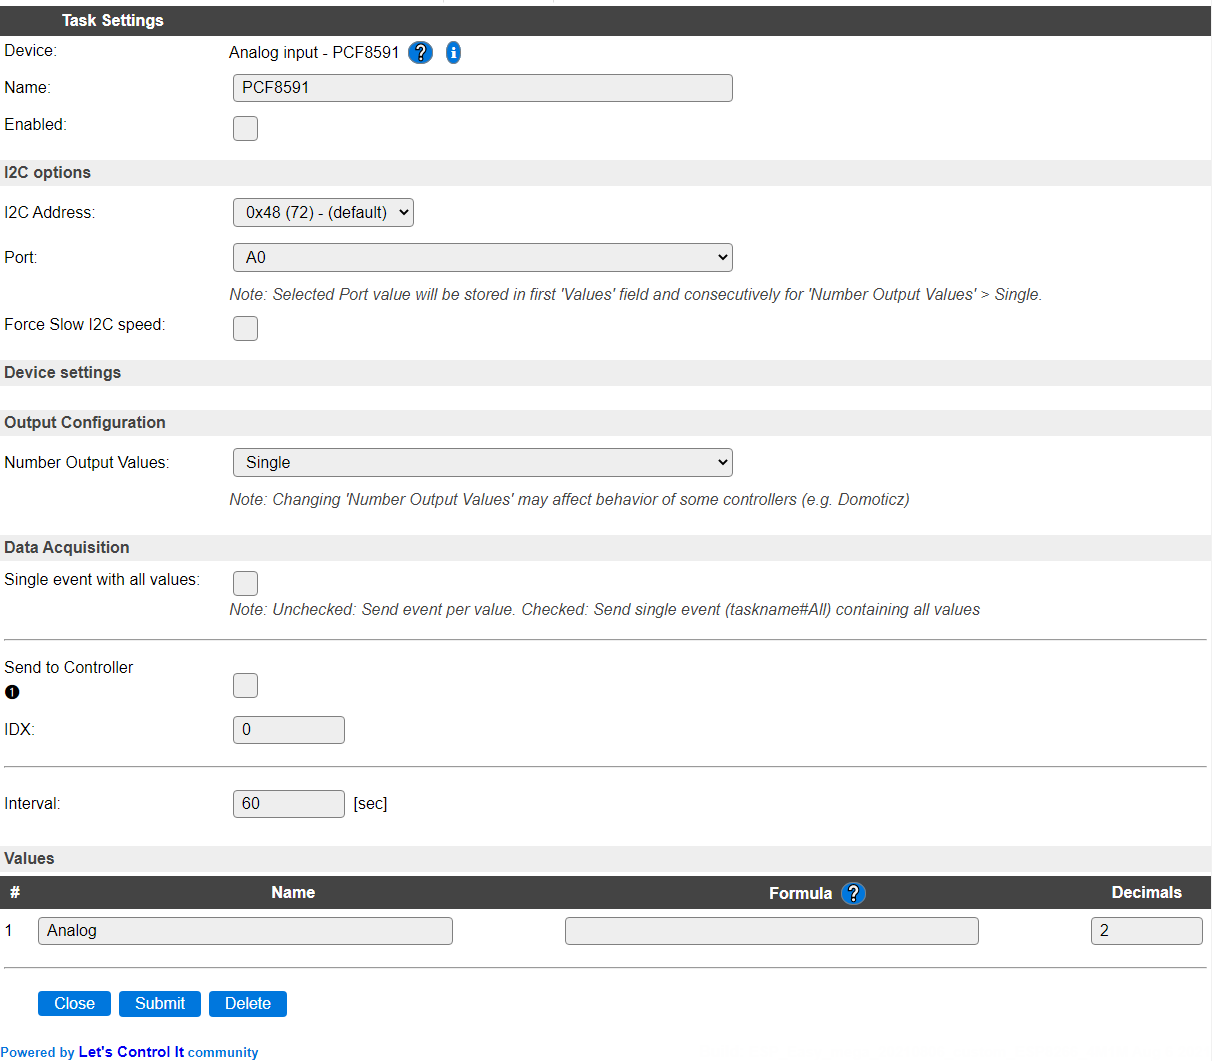
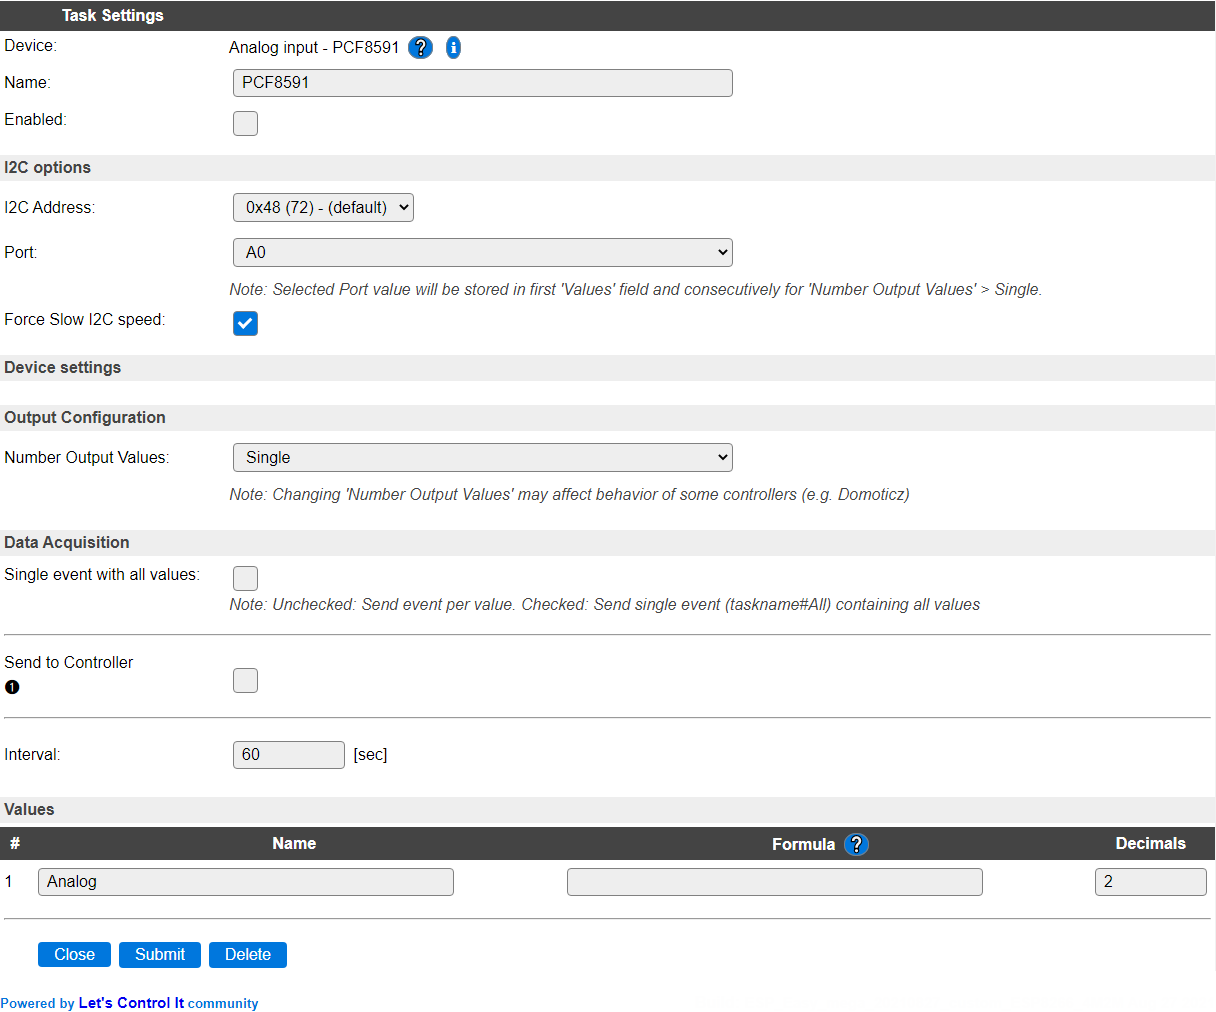
[P007] Cast measured value to double instead of float, update docs with Slow I2C Clock requirement

diff --git a/docs/source/Plugin/P007.rst b/docs/source/Plugin/P007.rst
@@ -66,6 +66,8 @@ Available options:
 
 .. image:: P007_PortOptions.png
 
+* **Force Slow I2C Speed** Should be **enabled**, as by PCF8591 chip specification, the I2C bus clock should be **max. 100 kHz**. This is the default **Slow device Clock Speed** I2C setting for ESPEasy (see Hardware tab). When using the default I2C Clock Speed of 400 kHz, readings will be unreliable, *especially* when reading multiple values in 1 task.
+
 Output Configuration
 ^^^^^^^^^^^^^^^^^^^^
 
